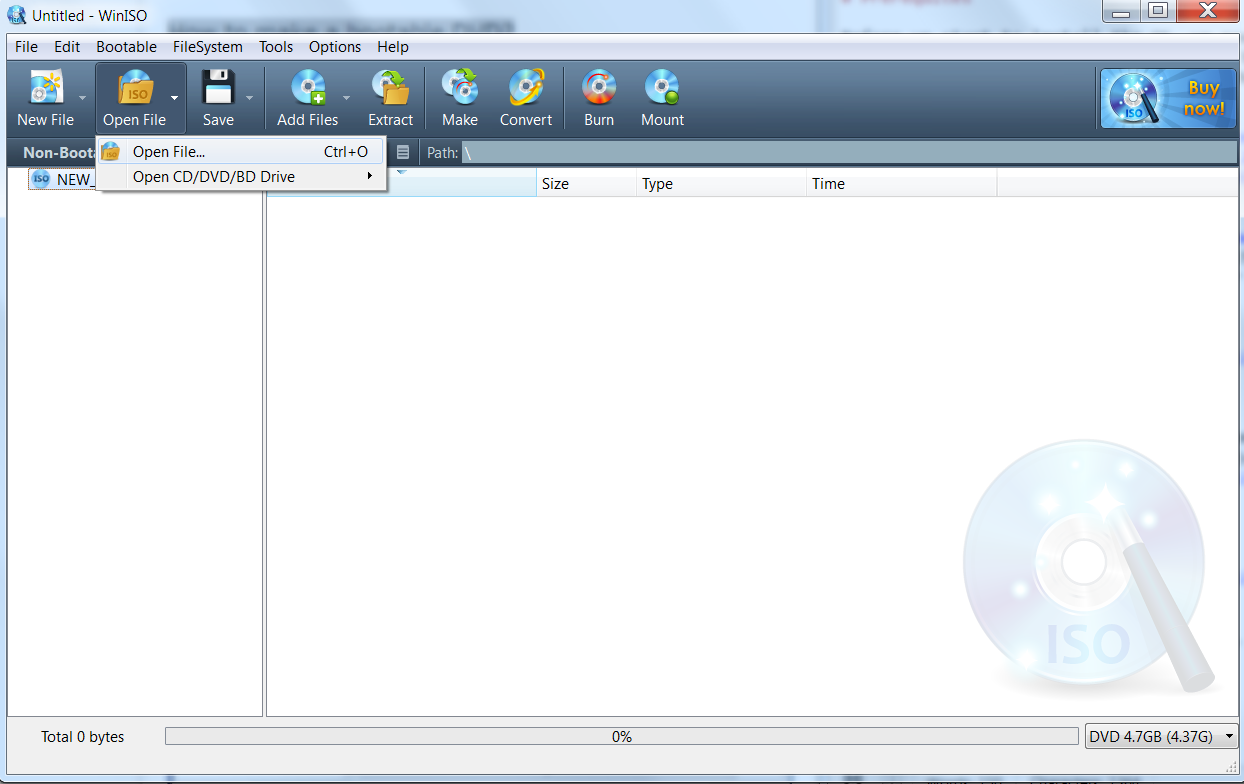
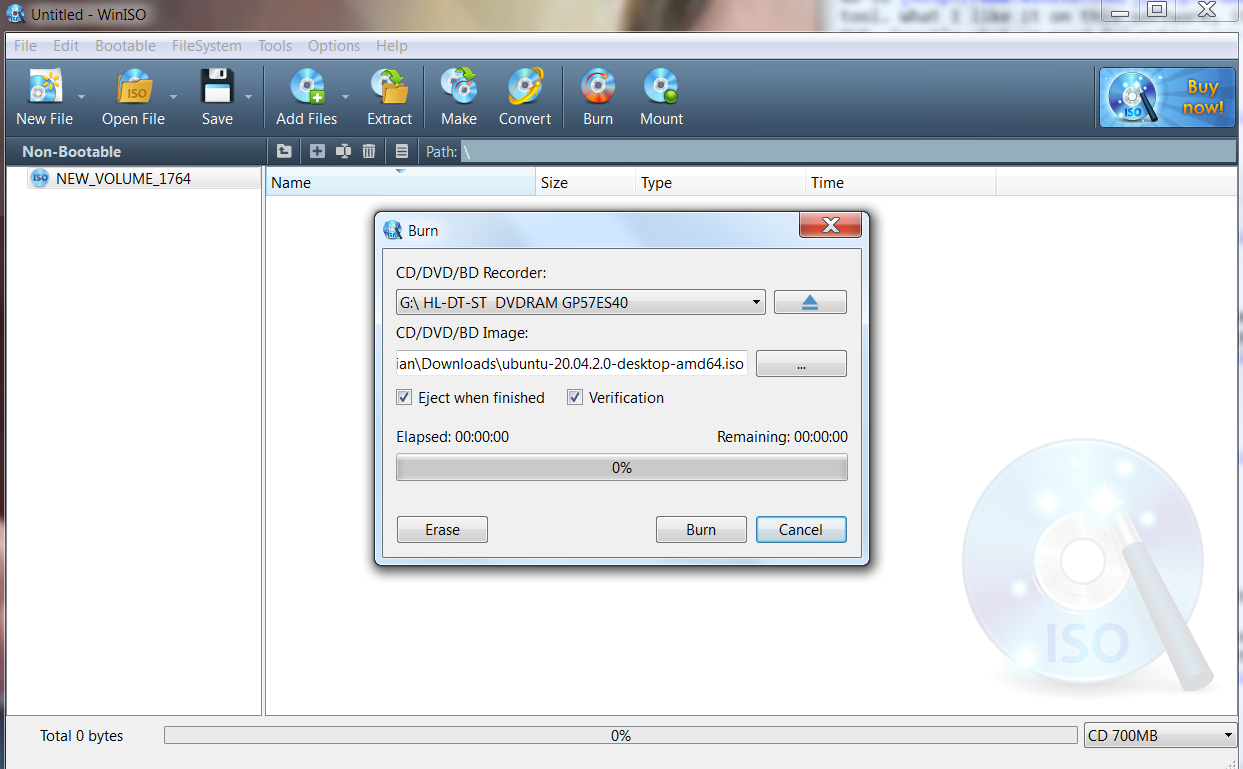
more simpler burning of an image to DVD
and it works as well

diff --git a/installation/ubuntu-os/Ubuntu-directly.md b/installation/ubuntu-os/Ubuntu-directly.md
@@ -7,33 +7,21 @@ Download ubuntu desktop from [here](https://ubuntu.com/download/desktop).<br>
 This is what I installed: [Ubuntu 20.04.2.0 LTS](https://ubuntu.com/download/desktop/thank-you?version=20.04.2.0&architecture=amd64).
 
 **Step 2**<br>
-Go to [http://www.winiso.com/](http://www.winiso.com/) and download the free tool. What I like it on this software, it's that it's free for making bootalble DVD. Exactly what we need for making our ubuntu os bootable.
+Go to [http://www.winiso.com/](http://www.winiso.com/) and download the free tool. This is the cheapest tool I found for burning bootable images to CD. In the following steps I will only how to burn normal CD, as I discovered it works aldo and it's free.
 
 **Step 3**<br>
-After installed it, open it.<br>
+After installed it **WinISO**, open it.<br>
 ![os_1](https://github.com/Cristishor201/ESP8266/blob/main/installation/ubuntu-vBox/os_1.PNG)
 
 **Step 4**<br>
-From Open File menu, select Open File... and select the Ubuntu desktop image we just downloaded.<br>
-![os_2](https://github.com/Cristishor201/ESP8266/blob/main/installation/ubuntu-vBox/os_2.PNG)
+Select Burn from the toolbar.
 
 **Step 5**<br>
-From *Bootable* menu, select *Import From...*, and then *CD/DVD/BD Image File*, and select again the Ubuntu desktop image we just downloaded.<br>
-![os_3](https://github.com/Cristishor201/ESP8266/blob/main/installation/ubuntu-vBox/os_3.PNG)
-
-**Step 6**<br>
-Select Set into current.<br>
-![os_4](https://github.com/Cristishor201/ESP8266/blob/main/installation/ubuntu-vBox/os_4.PNG)
-
-**Step 7**<br>
-Select Burn from the toolbar.<br>
-
-**Step 8**<br>
-Select the CD/DVD/BD Recorder from the drop-down list, and then click on the blue triangle to eject the tray.<br>
-After inserting a blank DVD, all you need to do is to check on Verification, and then begin the process of burning the DVS by pressing Burn button.<br>
-![os_5](https://github.com/Cristishor201/ESP8266/blob/main/installation/ubuntu-vBox/os_5.PNG)
-
-
+Next select the *CD/DVD/BD Recorder* from the drop-down list, and then click on the blue triangle to eject the tray.<br><br>
+Insert a blank DVD, and put it back together.<br>
+From the button with *...* browse the Ubuntu image we just downloaded.<br>
+Then check in *Verification* and *Eject when finished*, and then begin the process of burning the DVD by pressing *Burn* button.<br>
+![os_2](https://github.com/Cristishor201/ESP8266/blob/main/installation/ubuntu-vBox/os_2.PNG)
 
 
 <s>(installation (download, prerequites, install | Configuring, issues case)
